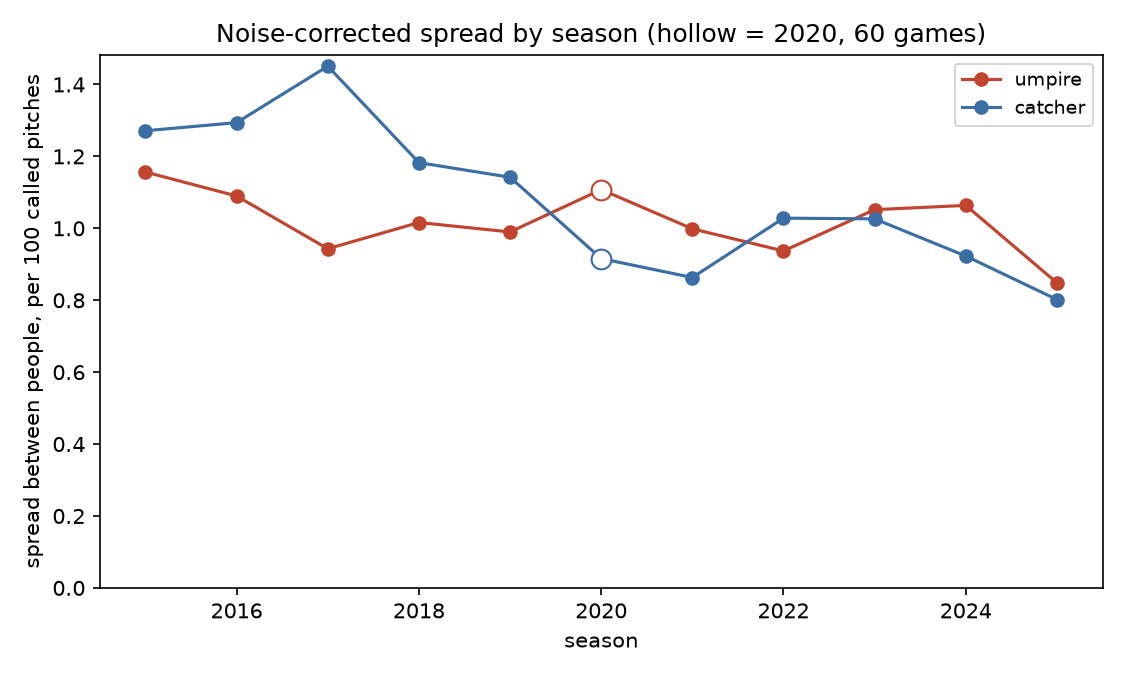
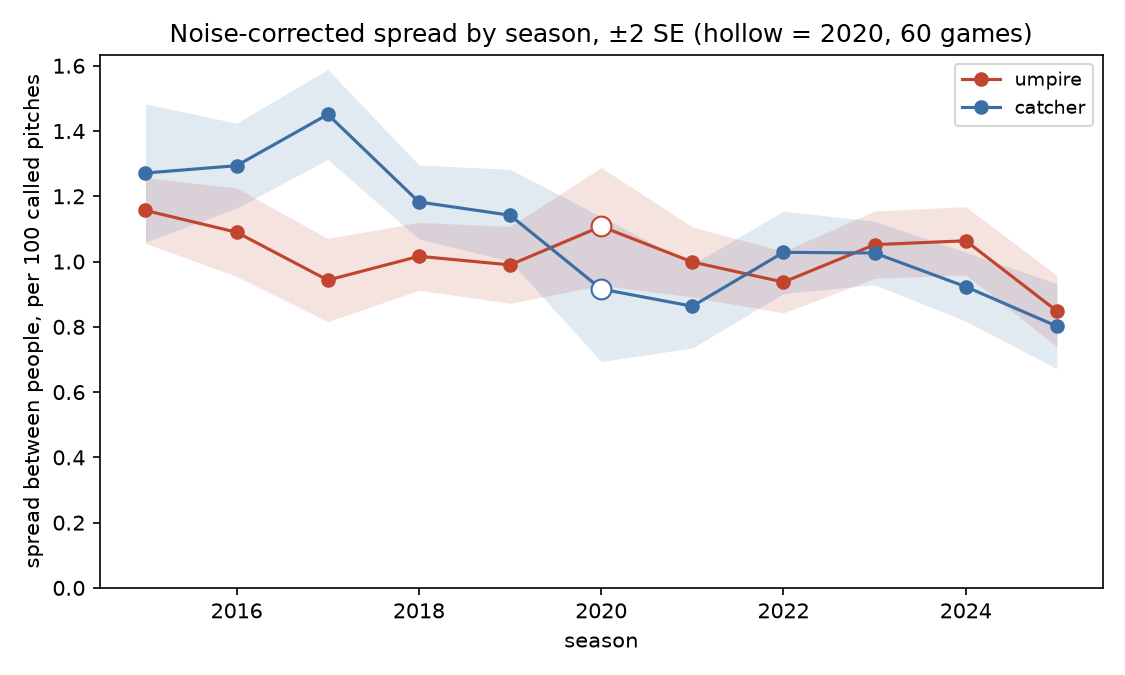
Put nested-bootstrap intervals on the season spreads
The spread is a variance with the estimation noise subtracted, and that
subtraction needs the standard errors of the effects, which are themselves a
bootstrap. So the interval nests: the outer loop resamples games and every outer
replicate re-estimates its own standard errors from its own resample. Reusing
the full sample errors would apply one estimator to the point estimate and
another to the replicates.

Use only the width of that distribution. Its centre sits about 0.11 above the
statistic because an inner bootstrap drawn from already-resampled games
understates that replicate noise, so each replicate under-corrects and lands
high. That is an artefact of nesting rather than anything about the season, and
percentile bounds built on it put the point estimate outside its own interval.
The shift is printed and recorded per season rather than absorbed.

Weight seasons by precision when fitting the trend. It moves the umpire slope
from -0.0134 to -0.0142 and changes no conclusion: catchers converge at five
standard errors, umpires sit at 1.9, which is short of the bar but too close to
claim flatness either.

diff --git a/src/mlb_strikezone/drift.py b/src/mlb_strikezone/drift.py
@@ -9,17 +9,21 @@ matplotlib.use("Agg")
 import matplotlib.pyplot as plt
 import numpy as np
 import pandas as pd
+from sklearn.linear_model import Ridge
 
 from mlb_strikezone.attribution import (
     PREDICTIONS,
     ROLES,
     UMPIRES,
     bootstrap_standard_errors,
+    build_design,
     fit_joint,
+    games_as_row_blocks,
 )
 
 PROCESSED = Path("data/processed")
 SEASON_EFFECTS = PROCESSED / "season_effects.parquet"
+SEASON_SPREADS = PROCESSED / "season_spreads.parquet"
 FIGURES = Path("figures")
 
 # Far lighter than the pooled fit's 2000. Ridge shrinks an effect by roughly
@@ -30,6 +34,20 @@ FIGURES = Path("figures")
 SEASON_ALPHA = 100
 SEASON_MIN_PITCHES = 1000
 BOOTSTRAP_REPLICATES = 100
+
+# The interval on a season's spread is nested: the outer loop resamples games,
+# and each outer replicate needs its own standard errors before its spread can
+# be corrected. Inner stays small because it only has to pin an average of
+# squared errors over ~90 people, which is far easier than pinning any one.
+#
+# Only the width of that distribution is used. Its centre sits roughly 15% above
+# the statistic, because an inner bootstrap drawn from an already-resampled set
+# of games understates that replicate's noise, so every replicate under-corrects
+# and lands high. That is an artefact of nesting rather than anything about the
+# season, so percentile bounds would be misleading and the interval is built as
+# the point estimate plus and minus two bootstrap standard errors.
+OUTER_REPLICATES = 100
+INNER_REPLICATES = 15
 
 SHORT_SEASON = 2020
 
@@ -73,6 +91,70 @@ def season_effects(df, season):
     )
 
 
+def _resample(blocks, picked):
+    return np.concatenate([blocks[game] for game in picked])
+
+
+def spread_bootstrap(df, season, outer=OUTER_REPLICATES, inner=INNER_REPLICATES, seed=0):
+    """Bootstrap distribution of each role's corrected spread for one season.
+
+    Nested rather than single-level, because the spread is not a mean. It is a
+    variance with the estimation noise subtracted, and that subtraction needs the
+    standard errors of the effects, which are themselves a bootstrap. Every outer
+    replicate therefore re-estimates them from its own resampled games. Reusing
+    the full sample's standard errors would apply one estimator to the point
+    estimate and a different one to the replicates, and the interval would
+    describe neither."""
+    slice_ = df[df["season"] == season]
+    design, encoder = build_design(slice_)
+    residual = slice_["residual"].to_numpy()
+    blocks = games_as_row_blocks(slice_)
+    columns = {
+        "umpire": slice(0, len(encoder.categories_[0])),
+        "catcher": slice(len(encoder.categories_[0]), None),
+    }
+    rng = np.random.default_rng(seed)
+
+    draws = {role: np.empty(outer) for role in columns}
+    for replicate in range(outer):
+        picked = rng.integers(0, len(blocks), len(blocks))
+        rows = _resample(blocks, picked)
+        effect = Ridge(alpha=SEASON_ALPHA).fit(design[rows], residual[rows]).coef_
+        # One-hot columns sum to each person's pitch count, so the qualification
+        # floor can be reapplied per replicate without touching the frame.
+        counts = np.asarray(design[rows].sum(axis=0)).ravel()
+
+        inner_draws = np.empty((inner, design.shape[1]))
+        for step in range(inner):
+            repicked = picked[rng.integers(0, len(picked), len(picked))]
+            inner_rows = _resample(blocks, repicked)
+            inner_draws[step] = (
+                Ridge(alpha=SEASON_ALPHA).fit(design[inner_rows], residual[inner_rows]).coef_
+            )
+        se = inner_draws.std(axis=0, ddof=1)
+
+        for role, span in columns.items():
+            keep = counts[span] >= SEASON_MIN_PITCHES
+            draws[role][replicate] = corrected_spread(effect[span][keep], se[span][keep])
+    return draws
+
+
+def summarise_bootstrap(draws, season):
+    """Width of the bootstrap distribution, and where it sits relative to the
+    statistic so the shift stays visible rather than being quietly absorbed."""
+    rows = []
+    for role, values in draws.items():
+        rows.append(
+            {
+                "season": season,
+                "role": role,
+                "spread_se": values.std(ddof=1) * 100,
+                "draw_median": np.median(values) * 100,
+            }
+        )
+    return pd.DataFrame(rows)
+
+
 def spread_by_season(effects):
     rows = []
     for (season, role), group in effects.groupby(["season", "role"]):
@@ -91,22 +173,37 @@ def spread_by_season(effects):
 
 
 def trend(subset):
-    """Least-squares slope of spread against season, with its standard error.
+    """Slope of spread against season, with its standard error.
 
-    Each season is treated as one equally weighted observation, which is rough —
-    the spreads carry their own errors — but it is enough to say whether a
-    decline is a trend or two unusual end points with noise in between."""
+    Seasons are weighted by their bootstrap precision when it is available, so a
+    short season with a wide interval does not pull the line as hard as a full
+    one. The standard error is scaled by the observed weighted scatter rather
+    than taken from the weights alone, which keeps it honest if the spread
+    really does move between seasons by more than estimation noise."""
     x, y = subset["season"].to_numpy(float), subset["spread"].to_numpy()
-    slope, intercept = np.polyfit(x, y, 1)
+    weights = (
+        1 / subset["spread_se"].to_numpy() ** 2
+        if "spread_se" in subset and subset["spread_se"].notna().all()
+        else np.ones(len(x))
+    )
+
+    centre = np.average(x, weights=weights)
+    spread_x = (weights * (x - centre) ** 2).sum()
+    slope = (weights * (x - centre) * (y - np.average(y, weights=weights))).sum() / spread_x
+    intercept = np.average(y, weights=weights) - slope * centre
+
     residuals = y - (slope * x + intercept)
-    scatter = np.sqrt((residuals**2).sum() / (len(x) - 2))
-    return slope, scatter / np.sqrt(((x - x.mean()) ** 2).sum())
+    scatter = (weights * residuals**2).sum() / (len(x) - 2)
+    return slope, np.sqrt(scatter / spread_x)
 
 
 def figure_spread(spreads, path):
     fig, ax = plt.subplots(figsize=(7.5, 4.5))
     for role, color in [("umpire", "#c1442f"), ("catcher", "#3b6ea5")]:
         subset = spreads[spreads["role"] == role]
+        if "lo" in subset:
+            ax.fill_between(subset["season"], subset["lo"], subset["hi"],
+                            color=color, alpha=0.15, lw=0)
         ax.plot(subset["season"], subset["spread"], marker="o", color=color, label=role)
         short = subset[subset["season"] == SHORT_SEASON]
         ax.scatter(short["season"], short["spread"], s=90, facecolor="white",
@@ -115,7 +212,7 @@ def figure_spread(spreads, path):
     ax.set_ylim(bottom=0)
     ax.set_xlabel("season")
     ax.set_ylabel("spread between people, per 100 called pitches")
-    ax.set_title("Noise-corrected spread by season (hollow = 2020, 60 games)")
+    ax.set_title("Noise-corrected spread by season, ±2 SE (hollow = 2020, 60 games)")
     ax.legend(fontsize=9)
     fig.tight_layout()
     fig.savefig(path, dpi=150)
@@ -127,19 +224,26 @@ def fit_and_save():
     seasons = sorted(df["season"].unique())
     print(f"{len(df):,} called pitches over {len(seasons)} seasons")
 
-    effects = []
+    effects, intervals = [], []
     for season in seasons:
-        print(f"fitting {season} ({BOOTSTRAP_REPLICATES} bootstrap replicates)...")
+        print(f"fitting {season}: {BOOTSTRAP_REPLICATES} replicates for the effects, "
+              f"then {OUTER_REPLICATES}x{INNER_REPLICATES} nested for the spread...")
         effects.append(season_effects(df, season))
+        intervals.append(summarise_bootstrap(spread_bootstrap(df, season), season))
 
     PROCESSED.mkdir(parents=True, exist_ok=True)
     pd.concat(effects, ignore_index=True).to_parquet(SEASON_EFFECTS, index=False)
-    print(f"wrote {SEASON_EFFECTS}\n")
+    pd.concat(intervals, ignore_index=True).to_parquet(SEASON_SPREADS, index=False)
+    print(f"wrote {SEASON_EFFECTS} and {SEASON_SPREADS}\n")
 
 
 def report():
     effects = pd.read_parquet(SEASON_EFFECTS)
-    spreads = spread_by_season(effects)
+    spreads = spread_by_season(effects).merge(
+        pd.read_parquet(SEASON_SPREADS), on=["season", "role"], how="left"
+    )
+    spreads["lo"] = spreads["spread"] - 2 * spreads["spread_se"]
+    spreads["hi"] = spreads["spread"] + 2 * spreads["spread_se"]
     for role in ROLES.values():
         print(f"\n{role}s, spread by season (per 100 called pitches, "
               f"n >= {SEASON_MIN_PITCHES:,})")
@@ -148,6 +252,11 @@ def report():
             .drop(columns=["role"])
             .to_string(index=False, float_format=lambda v: f"{v:.3f}")
         )
+
+    lift = (spreads["draw_median"] - spreads["spread"]).mean()
+    print(f"\nnested bootstrap draws sit {lift:+.3f} above the statistic on average, an "
+          "artefact of\nresampling twice; intervals use the width of that distribution, "
+          "not its position")
 
     print("\ntrend in spread per season, 2020 excluded as a 60-game season")
     full = spreads[spreads["season"] != SHORT_SEASON]
@@ -164,7 +273,7 @@ def report():
 
 
 def main(refit):
-    if refit or not SEASON_EFFECTS.exists():
+    if refit or not (SEASON_EFFECTS.exists() and SEASON_SPREADS.exists()):
         fit_and_save()
     else:
         print(f"reusing {SEASON_EFFECTS}; pass --refit to fit again\n")
@@ -205,6 +314,19 @@ def _self_check():
     real_slope, real_error = trend(sloped)
     assert abs(flat_slope) < 2 * flat_error, (flat_slope, flat_error)
     assert abs(real_slope) > 2 * real_error, (real_slope, real_error)
+
+    # Weighting must actually bite: one wildly imprecise season pulls the
+    # unweighted line and should barely move the weighted one.
+    outlier = sloped.copy()
+    outlier.loc[0, "spread"] = 3.0
+    tight = np.full(10, 0.02)
+    tight[0] = 5.0
+    assert abs(trend(outlier)[0] - real_slope) > 0.05, "unweighted fit should be dragged"
+    weighted = trend(outlier.assign(spread_se=tight))[0]
+    assert abs(weighted - real_slope) < 0.02, (weighted, real_slope)
+
+    # An all-NaN error column falls back to equal weights rather than failing.
+    assert trend(sloped.assign(spread_se=np.nan))[0] == real_slope
     print("ok")
 
 

diff --git a/README.md b/README.md
@@ -227,10 +227,17 @@ with two adjustments the result depends on entirely:
 
 ![Spread between people by season](figures/spread_by_season.png)
 
+Each season's spread carries a nested bootstrap interval, drawn as a band above:
+the outer loop resamples games, and because the spread is a variance with the
+estimation noise subtracted, every outer replicate has to re-estimate that noise
+from its own resampled games. Seasons are then weighted by their precision when
+the trend is fitted, so 2020's wide band does not pull the line like a full
+season's narrow one.
+
 | | 2015 | 2025 | slope per season |
 | --- | --- | --- | --- |
 | catchers | 1.27 | 0.80 | **−0.052 ± 0.010** |
-| umpires | 1.16 | 0.85 | −0.013 ± 0.008 |
+| umpires | 1.16 | 0.85 | −0.014 ± 0.008 |
 
 **The catcher spread has collapsed by about a third, and the trend is five
 standard errors from flat.** In 2017 the gap between a good and a bad framer was
@@ -239,12 +246,20 @@ priced skill over this period — teams that can measure it stop employing
 catchers who are bad at it — though this data can show only the compression, not
 the cause.
 
-**The umpire spread has not meaningfully moved.** The end points tempt a
+**The umpire spread is not established as moving.** The end points tempt a
 different story: 1.16 down to 0.85 reads as a 27% decline. But the slope is
-−0.013 ± 0.008, under two standard errors, and the middle of the series wobbles
-between 0.94 and 1.06 with no direction — 2023 and 2024 are both *higher* than
-2017. Two unusual end seasons are not a trend. Whatever has changed about the
-strike zone since 2015, umpires are not becoming more alike.
+−0.014 ± 0.008, and the middle of the series wobbles between 0.94 and 1.06 with
+no direction — 2023 and 2024 are both *higher* than 2017, and their bands
+overlap almost everything.
+
+That is 1.9 standard errors, which is short of the conventional bar but close
+enough that "umpires are not converging" would be overclaiming in the other
+direction. The honest reading is that eleven seasons cannot separate a slow
+umpire convergence from none at all, while the same eleven seasons settle the
+catcher question five times over. Weighting the seasons by their bootstrap
+precision moved the slope from −0.0134 to −0.0142 and changed no conclusion,
+which is its own small result: the season estimates are precise enough that it
+did not matter.
 
 ## Reproducing
 
@@ -322,7 +337,10 @@ of value per unit of work:
 
 - **A Streamlit view** over `attribution.parquet` and the zone grids, so the
   leaderboard and the count contours can be filtered rather than read.
-- **Uncertainty on the season spreads themselves.** The trend slopes above treat
-  each season's spread as one equally weighted observation. A nested bootstrap
-  would put a proper interval on each point, and would firm up how flat the
-  umpire series really is.
+- **An unbiased interval on the season spreads.** The nested bootstrap's draws
+  sit about 0.11 above the statistic — an artefact of resampling twice, since an
+  inner bootstrap drawn from already-resampled games understates that
+  replicate's noise. Only the width is used, so the intervals are symmetric by
+  construction. A bias-corrected accelerated bootstrap, or an analytic
+  cluster-robust standard error in place of the inner loop, would give a
+  properly asymmetric one.
